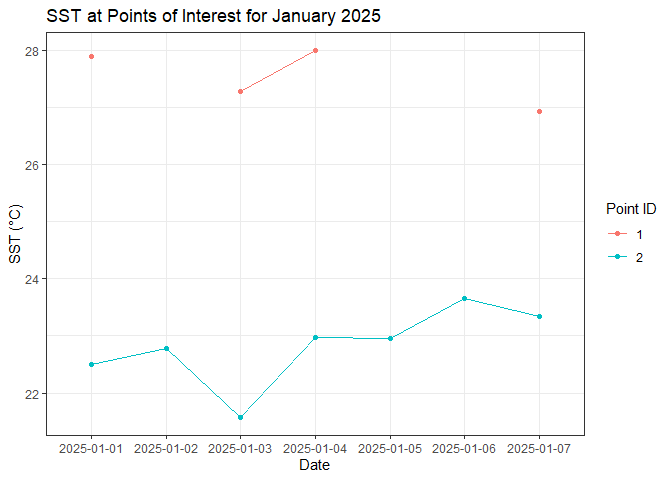
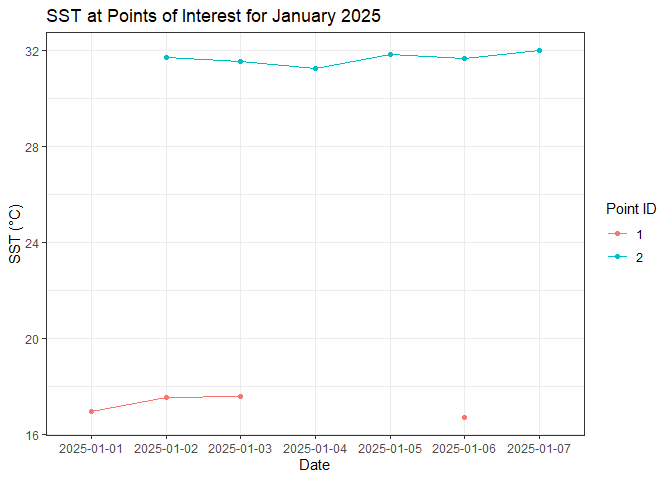
updating area of interest to north WA and SA

diff --git a/AMSA2025/Notebooks/Accessing_IMOS_SRS_SST_data.md b/AMSA2025/Notebooks/Accessing_IMOS_SRS_SST_data.md
@@ -394,11 +394,6 @@ names(sst_jan_w1) <- date_sst_jan
 
 # Transforming from Kelvin to Celsius
 sst_jan_w1_celsius <- sst_jan_w1 - 273.15
-```
-
-    ## |---------|---------|---------|---------|=========================================                                          
-
-``` r
 sst_jan_w1_celsius
 ```
 
@@ -407,23 +402,23 @@ sst_jan_w1_celsius
     ## resolution  : 0.02, 0.02  (x, y)
     ## extent      : 70, 190, -70, 20  (xmin, xmax, ymin, ymax)
     ## coord. ref. : lon/lat WGS 84 (CRS84) (OGC:CRS84) 
-    ## source      : spat_40b86aea740b_16568_o8up7yuDdJ6XHBX.tif 
+    ## source(s)   : memory
     ## varname     : sea_surface_temperature (sea surface skin temperature) 
     ## names       : 2025-01-01, 2025-01-02, 2025-01-03, 2025-01-04, 2025-01-05, 2025-01-06, ... 
     ## min values  :  -3.111253,  -3.123773,  -3.439873,  -3.564982,  -3.099774,  -3.140474, ... 
-    ## max values  :  42.158745,  39.066227,  40.410126,  44.685017,  43.490223,  46.409527, ... 
+    ## max values  :  42.158746,  39.066226,  40.410126,  44.685017,  43.490225,  46.409525, ... 
     ## time (days) : 2025-01-01 to 2025-01-07 (7 steps)
 
 # Extracting SST data for points of interest
 
 We can extract SST data for specific points of interest using the
 `extract` function from the `terra` package. For example, we can extract
-SST data for a points in the east and west coast of Australia.
+SST data for a points in the south and west coast of Australia.
 
 ``` r
 # Defining points of interest
-points_of_interest <- data.frame(lon = c(153.4, 115.7),
-                                 lat = c(-19.5, -32)) |> 
+points_of_interest <- data.frame(lon = c(137.5, 115.7),
+                                 lat = c(-37.5, -19)) |> 
   # Converting points to a spatial object
   st_as_sf(coords = c("lon", "lat"), crs = 4326)
 
@@ -435,11 +430,11 @@ sst_points
 ```
 
     ##   ID 2025-01-01 2025-01-02 2025-01-03 2025-01-04 2025-01-05 2025-01-06
-    ## 1  1   27.88875         NA   27.27013   27.98502         NA         NA
-    ## 2  2   22.50875   22.77623   21.58013   22.97502   22.95023   23.64953
+    ## 1  1   16.95875   17.55623   17.59013         NA         NA   16.73953
+    ## 2  2         NA   31.73623   31.54013   31.26502   31.86022   31.68953
     ##   2025-01-07      x      y
-    ## 1   26.93361 153.39 -19.51
-    ## 2   23.34361 115.69 -32.01
+    ## 1         NA 137.49 -37.51
+    ## 2   31.99361 115.69 -19.01
 
 We can reformat the extracted data to make it easier to read and
 visualize.
@@ -455,20 +450,20 @@ sst_points
     ## # A tibble: 14 × 5
     ##       ID     x     y date       sst_celsius
     ##    <dbl> <dbl> <dbl> <chr>            <dbl>
-    ##  1     1  153. -19.5 2025-01-01        27.9
-    ##  2     1  153. -19.5 2025-01-02        NA  
-    ##  3     1  153. -19.5 2025-01-03        27.3
-    ##  4     1  153. -19.5 2025-01-04        28.0
-    ##  5     1  153. -19.5 2025-01-05        NA  
-    ##  6     1  153. -19.5 2025-01-06        NA  
-    ##  7     1  153. -19.5 2025-01-07        26.9
-    ##  8     2  116. -32.0 2025-01-01        22.5
-    ##  9     2  116. -32.0 2025-01-02        22.8
-    ## 10     2  116. -32.0 2025-01-03        21.6
-    ## 11     2  116. -32.0 2025-01-04        23.0
-    ## 12     2  116. -32.0 2025-01-05        23.0
-    ## 13     2  116. -32.0 2025-01-06        23.6
-    ## 14     2  116. -32.0 2025-01-07        23.3
+    ##  1     1  137. -37.5 2025-01-01        17.0
+    ##  2     1  137. -37.5 2025-01-02        17.6
+    ##  3     1  137. -37.5 2025-01-03        17.6
+    ##  4     1  137. -37.5 2025-01-04        NA  
+    ##  5     1  137. -37.5 2025-01-05        NA  
+    ##  6     1  137. -37.5 2025-01-06        16.7
+    ##  7     1  137. -37.5 2025-01-07        NA  
+    ##  8     2  116. -19.0 2025-01-01        NA  
+    ##  9     2  116. -19.0 2025-01-02        31.7
+    ## 10     2  116. -19.0 2025-01-03        31.5
+    ## 11     2  116. -19.0 2025-01-04        31.3
+    ## 12     2  116. -19.0 2025-01-05        31.9
+    ## 13     2  116. -19.0 2025-01-06        31.7
+    ## 14     2  116. -19.0 2025-01-07        32.0
 
 # Extracting SST data with `remora`
 
@@ -1380,9 +1375,9 @@ mean_sst_jan_w1
     ## extent      : 70, 190, -70, 20  (xmin, xmax, ymin, ymax)
     ## coord. ref. : lon/lat WGS 84 (CRS84) (OGC:CRS84) 
     ## source(s)   : memory
-    ## name        :     mean 
-    ## min value   : -3.14639 
-    ## max value   : 40.50361
+    ## name        :      mean 
+    ## min value   : -3.146391 
+    ## max value   : 40.503609
 
 # Plotting SST data
 
@@ -1443,7 +1438,10 @@ sst_points |>
   theme_bw()
 ```
 
-    ## Warning: Removed 3 rows containing missing values or values outside the scale range
+    ## Warning: Removed 2 rows containing missing values or values outside the scale range
+    ## (`geom_line()`).
+
+    ## Warning: Removed 4 rows containing missing values or values outside the scale range
     ## (`geom_point()`).
 
 ![](figures/unnamed-chunk-19-1.png)<!-- -->
